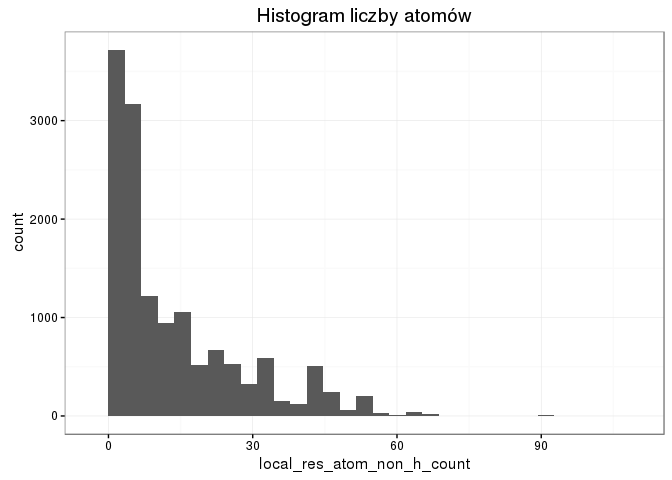
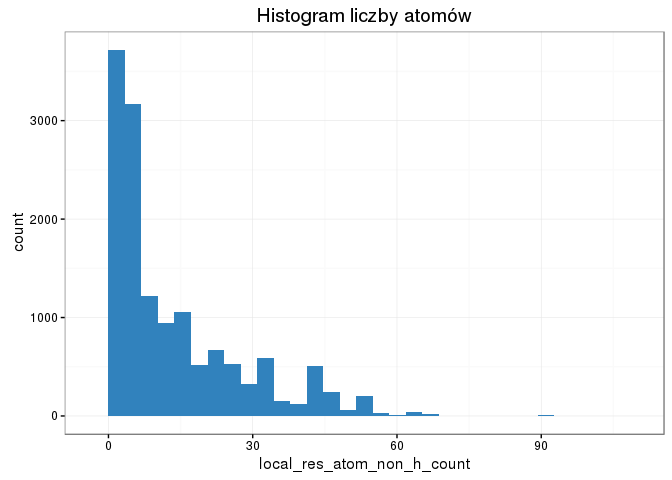
Regresja liniowa

Changed region(s): [[0.1562, 0.0938, 0.6562, 0.875]]

diff --git a/raport.md b/raport.md
@@ -1,6 +1,7 @@
 # ZED Raport
 Andrzej Nowicki  
-Data przygotowania raportu: 16 styczeń 2016
+Data przygotowania raportu: 17 styczeń 2016
+<!--"date:" nie generuje się w .md, więc dla lepszego wyglądu w githubie data została dodana ręcznie -->
 
 
 
@@ -112,7 +113,7 @@ kable(top_classes)
 |EDO      |   274|
 
 ```r
-ggplot(top_classes, aes(x=res_name, y=count)) + geom_bar(stat="identity") + scale_x_discrete(limits = top_classes$res_name) + ggtitle("Najczęściej występujące klasy") +theme_bw()
+ggplot(top_classes, aes(x=res_name, y=count)) + geom_bar(stat="identity",fill="#3182bd") + scale_x_discrete(limits = top_classes$res_name) + ggtitle("Najczęściej występujące klasy") +theme_bw()
 ```
 
 ![](raport_files/figure-html/unnamed-chunk-6-1.png)\
@@ -122,13 +123,13 @@ ggplot(top_classes, aes(x=res_name, y=count)) + geom_bar(stat="identity") + scal
 
 
 ```r
-ggplot(r, aes(local_res_atom_non_h_count)) + geom_histogram() + ggtitle("Histogram liczby atomów")+theme_bw()
+ggplot(r, aes(local_res_atom_non_h_count)) + geom_histogram(fill="#3182bd") + ggtitle("Histogram liczby atomów")+theme_bw()
 ```
 
 ![](raport_files/figure-html/unnamed-chunk-7-1.png)\
 
 ```r
-ggplot(r, aes(local_res_atom_non_h_electron_sum)) + geom_histogram() + ggtitle("Histogram liczby elektronów")+theme_bw()
+ggplot(r, aes(local_res_atom_non_h_electron_sum)) + geom_histogram(fill="#3182bd") + ggtitle("Histogram liczby elektronów")+theme_bw()
 ```
 
 ![](raport_files/figure-html/unnamed-chunk-7-2.png)\
@@ -209,6 +210,8 @@ kable(variances %>% top_n(10, sum_electron_variance) %>% select(res_name, sum_el
 
 ## Rozkład wartości wszystkich kolumn zaczynających się od part_01
 
+Aby zwiększyć czytelność wykresów, do zaprezentowania rozkładu wartości zmiennych kolumn part_01 zastosowano wykresy typu boxplot. Wykresy pozwalają określić kwartyle wartości danej zmiennej oraz elementy odstające. Wartości średnie zostały zaznaczone na czerwono.
+
 
 ```r
 library(ggplot2) # ponowne zaladowanie bilioteki by uwzglednila fig.width i fig.height
@@ -219,9 +222,24 @@ ggplot(melted,aes(x="",y=value,))+geom_boxplot(outlier.size=1)  + geom_label(dat
 ```
 
 ![](raport_files/figure-html/unnamed-chunk-12-1.png)\
-Wartości średnie zostały zaznaczone na czerwono.
 
-TODO: Sekcję sprawdzającą czy na podstawie wartości innych kolumn można przewidzieć liczbę elektronów i atomów oraz z jaką dokładnością można dokonać takiej predykcji; trafność regresji powinna zostać oszacowana na podstawie miar R^2 i RMSE;
 
+## Przewidywanie liczby elektronów i atomów
+
+
+```r
+r_filtered <- r[sapply(r,is.numeric)]
+#r_filtered <- r_filtered[complete.cases(r_filtered),] # pomijamy wiersze z brakującymi wartościami
+
+electron_count_model <- lm(local_res_atom_non_h_electron_sum ~ ., r_filtered)
+atom_count_model <- lm(local_res_atom_non_h_count ~ ., r_filtered)
+```
+### Trafność regresji liniowej
+Miara R^2 dla modelu liniowego liczby atomów wyniosła 0.9999997, a dla regresji liczby elektronów wyniosła 0.9999984.
+
+Miara RMSE dla modelu liniowego liczby atomów wyniosła 0.0119695, a dla regresji liczby elektronów wyniosła 0.176911.
+
+
+## Klasyfikator
 TODO: Sekcję próbującą stworzyć klasyfikator przewidujący wartość atrybutu res_name (w tej sekcji należy wykorzystać wiedzę z pozostałych punktów oraz wykonać dodatkowe czynności, które mogą poprawić trafność klasyfikacji); klasyfikator powinien być wybrany w ramach optymalizacji parametrów na zbiorze walidującym; przewidywany błąd na danych z reszty populacji powinien zostać oszacowany na danych inne niż uczące za pomocą mechanizmu (stratyfikowanej!) oceny krzyżowej lub (stratyfikowanego!) zbioru testowego.
 
